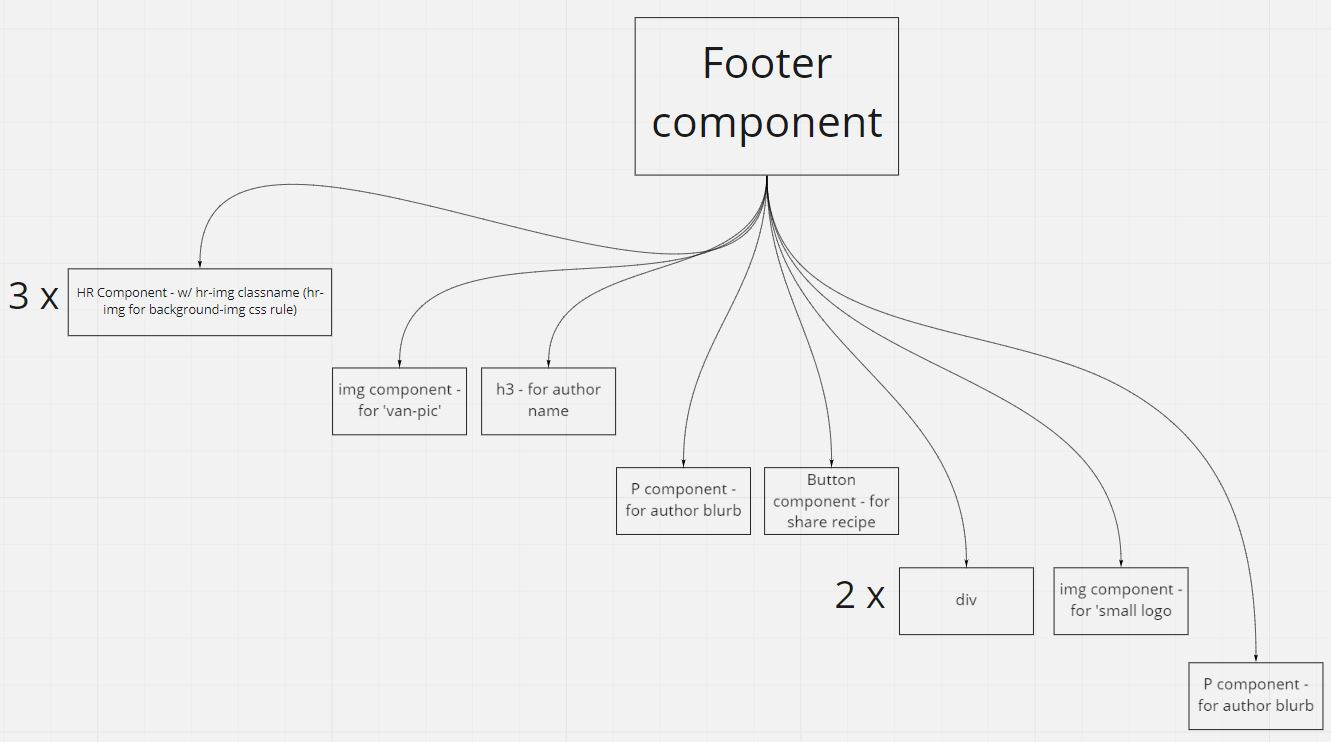
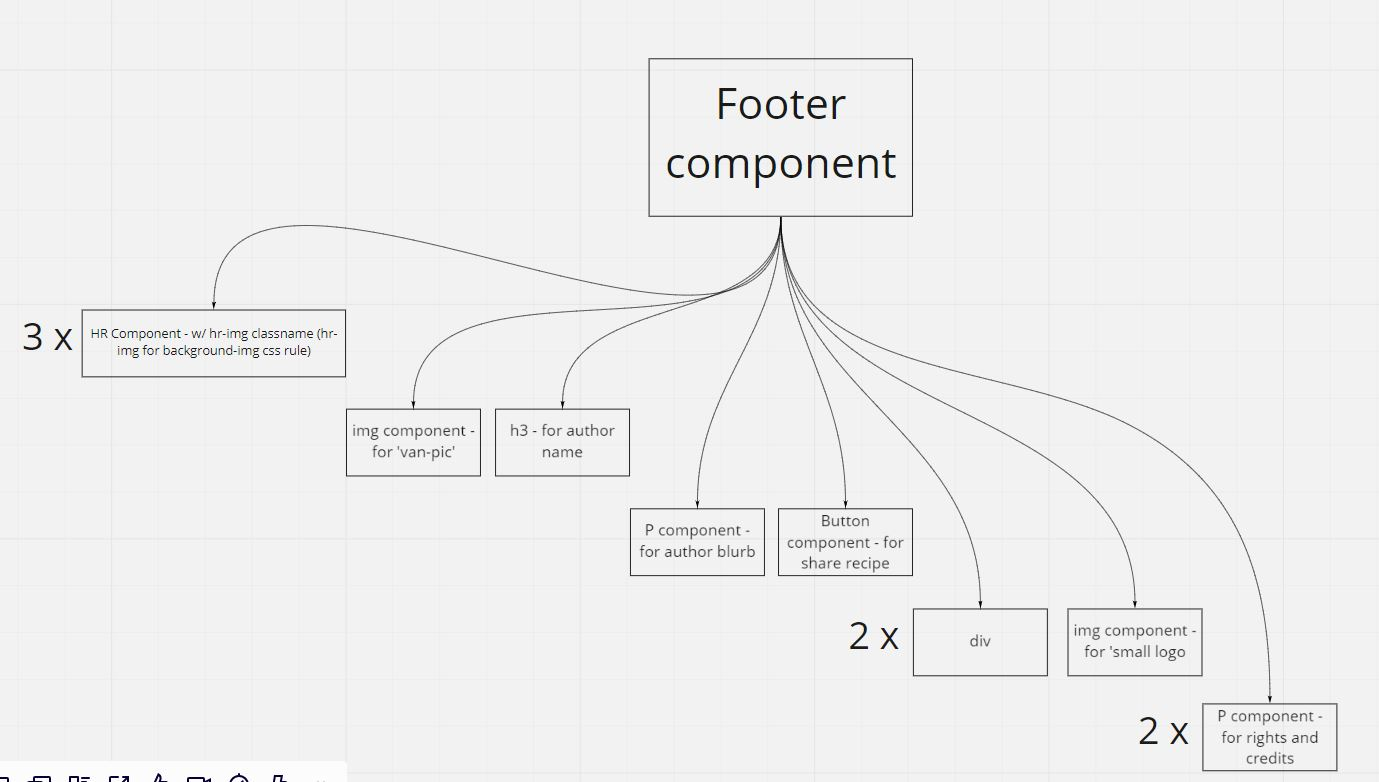
adds FooterComponent

diff --git a/src/footer-components/FooterComponent.js b/src/footer-components/FooterComponent.js
@@ -1,11 +1,37 @@
 import React, { Component } from 'react'
+import ImgComponent from '../util-components/ImgComponent.js'
+import PComponent from '../util-components/PComponent.js'
+import ButtonComponent from './ButtonComponent.js'
 
 export default class FooterComponent extends Component {
     render() {
         return (
-            <div>
-                
-            </div>
+            <footer>
+                <hr />
+                <hr />
+                <hr />
+                <ImgComponent 
+                sourceData = 'van-pic.png'
+                altData = 'van pic'
+                />
+                <h3>Vanessa Stevenson</h3>
+                <PComponent
+                textData = "Food Enthusiast, photography fan. Add a pinch of raw foodism and that's pretty much who I am."
+                />
+                <ButtonComponent />
+                <div></div>
+                <ImgComponent 
+                sourceData = 'small-logo.png'
+                altData = 'small logo'
+                />
+                <div></div>
+                <PComponent
+                textData = 'Delicious 2013 ~ All Rights Reserved.'
+                />
+                <PComponent
+                textData = 'Proudly published with Ghost.'
+                />
+            </footer>
         )
     }
 }

diff --git a/src/footer-components/ButtonComponent.js b/src/footer-components/ButtonComponent.js
@@ -1,0 +1,11 @@
+import React, { Component } from 'react'
+
+export default class ButtonComponent extends Component {
+    render() {
+        return (
+            <button>
+                SHARE RECIPE
+            </button>
+        )
+    }
+}
